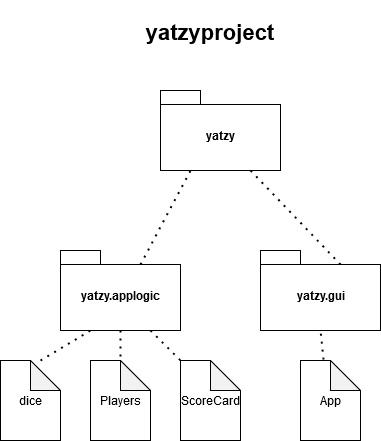
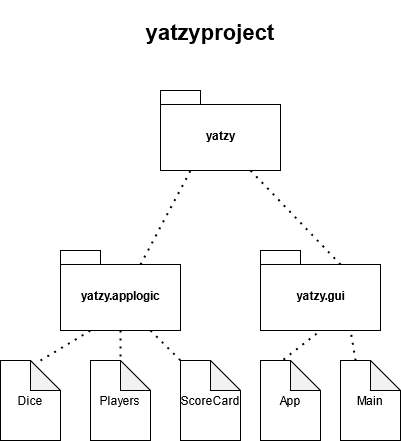
Muutoksia arkkitehtuuri.md

diff --git a/dokumentaatio/arkkitehtuuri.md b/dokumentaatio/arkkitehtuuri.md
@@ -1,7 +1,7 @@
 # Arkkitehtuurikuvaus
 ## Sovelluksen rakenne
 
-Ohjelma on jaettu kahteen erilliseen pakettiin. yatzy.applogic sisältää kolme eri luokkaa, jotka muodostavat suurimman osan sovelluksen toiminnasta. yazty.gui sisältää käyttöliittymän rakentavan luokan `App.java`.
+Ohjelma on jaettu kahteen erilliseen pakettiin. yatzy.applogic sisältää kolme eri luokkaa, jotka muodostavat suurimman osan sovelluksen toiminnasta.`yazty.gui` sisältää käyttöliittymän rakentavan luokan `App.java`, sekä sovelluksen käynnistävän `Main.java`-luokan.
 
 
 <img src="https://github.com/matiasonnelainen/ot-harjoitustyo/blob/master/dokumentaatio/kuvat/pakkausrakenne1.png">
